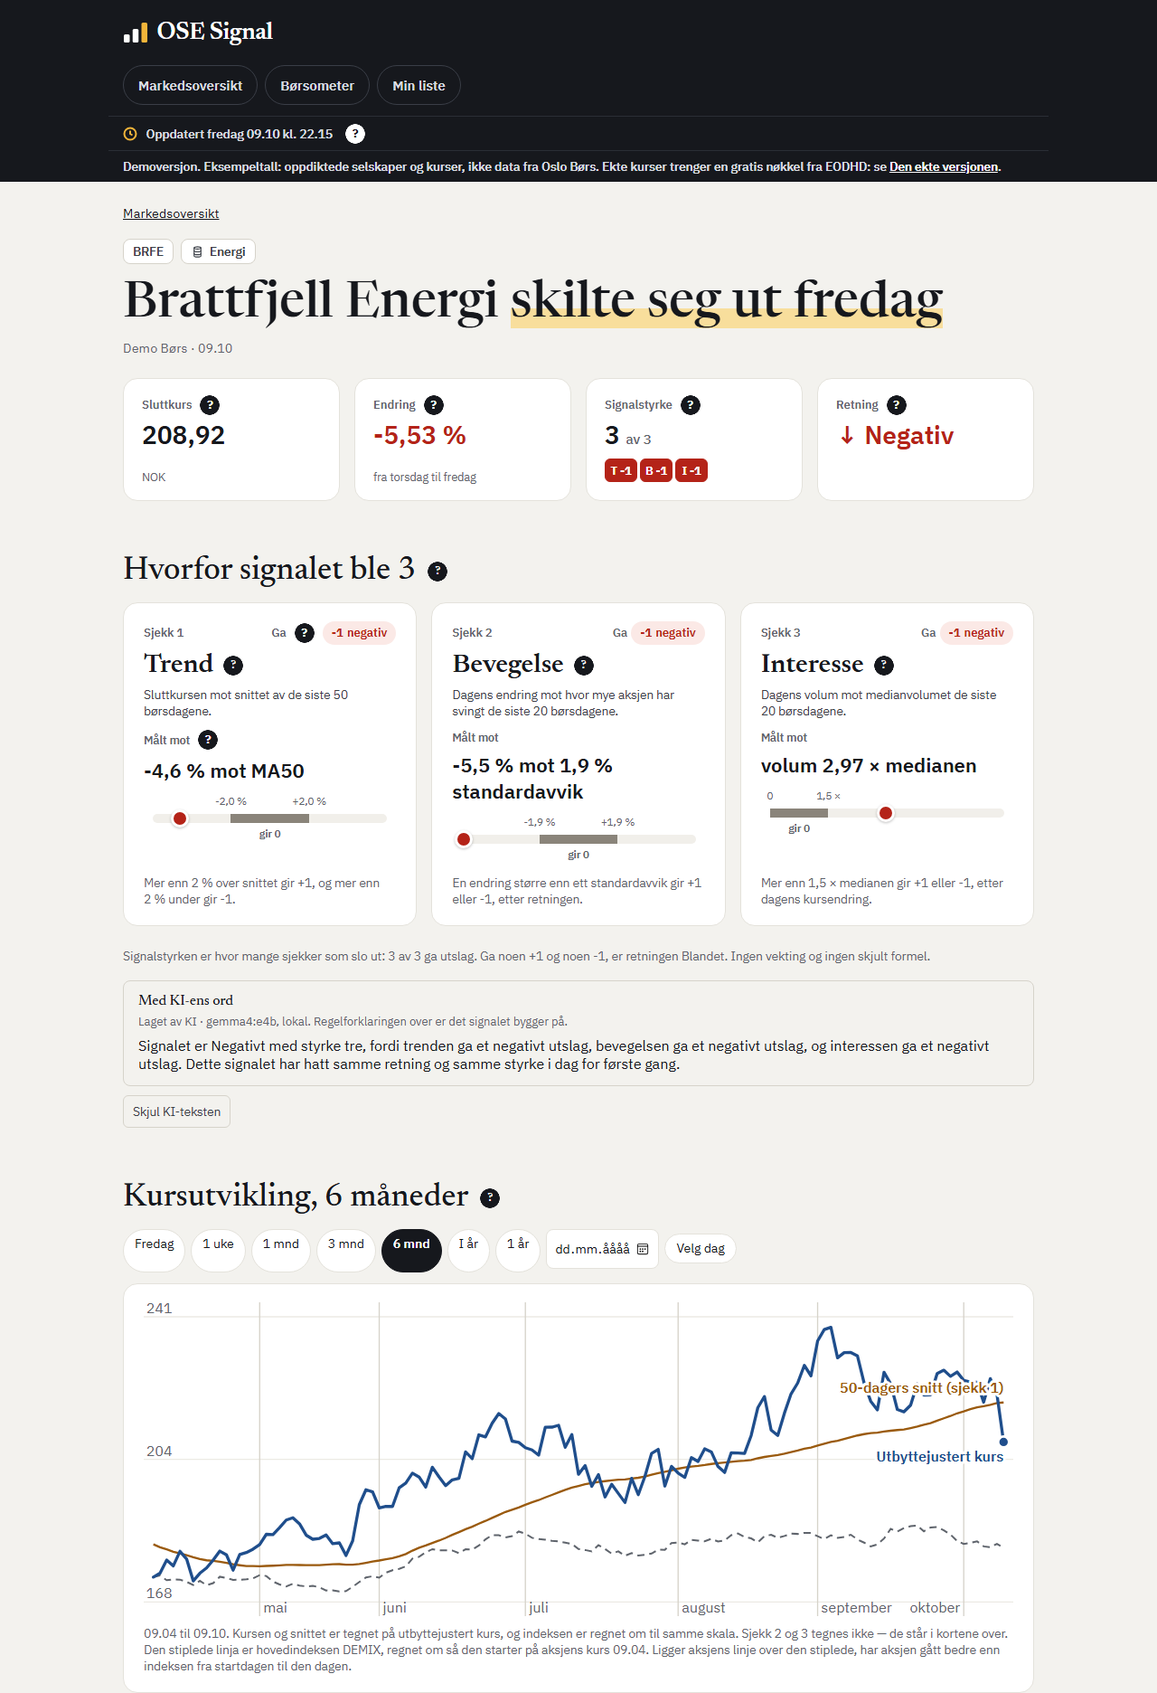
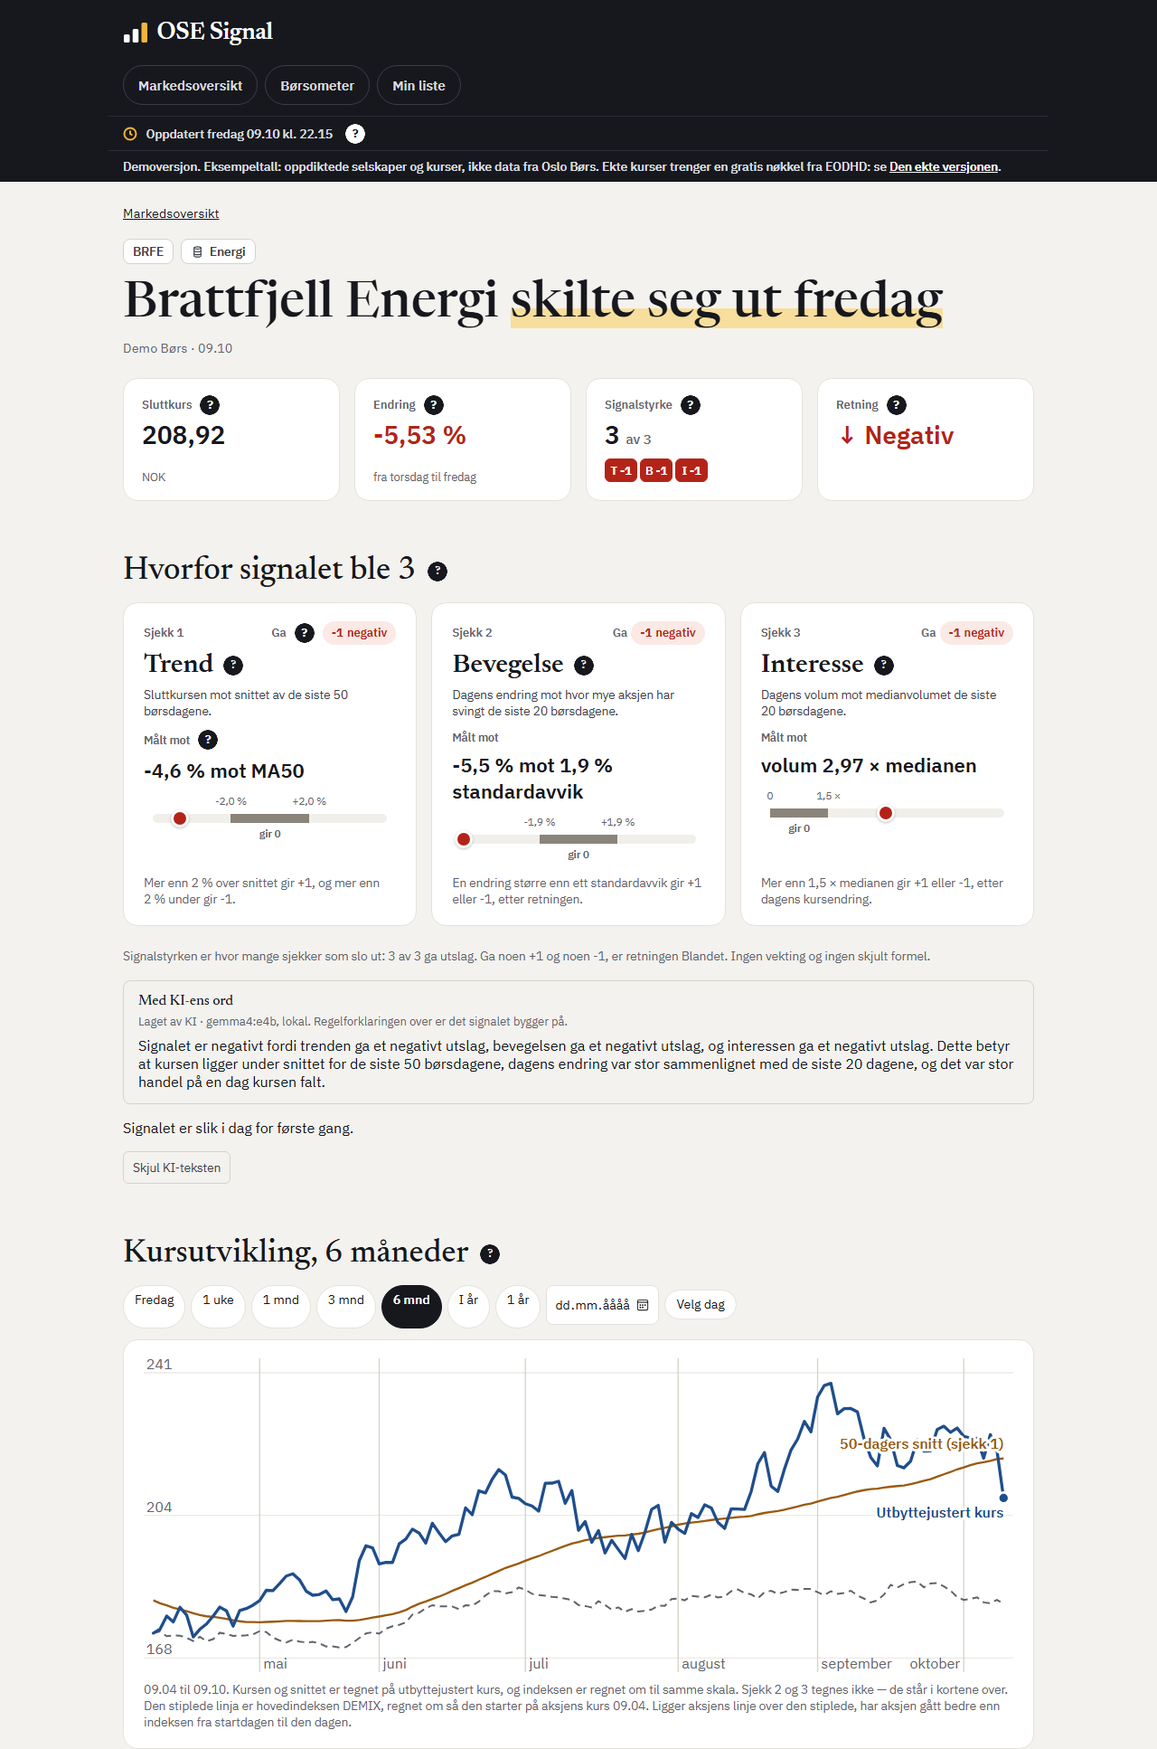
10.2e b: setningen om dagene under KI-teksten, og demoen på nytt
Etter gruppens svar 25.10 kl. 00:51. Appen skriver dagene selv, rett
under KI-teksten, også når KI er av eller teksten er stoppet. Tellingen
er flyttet til src/dagene.py, så webserveren ikke importerer ki_*.
KI-tekstene i demoen: 13 av 13. Bildet viser BRFE med setningen.

diff --git a/src/templates/aksje.html b/src/templates/aksje.html
@@ -140,6 +140,11 @@
         {% endif %}
       </section>
     {% endif %}
+    {#- Gruppens svar 25.10 kl. 00:51: appen skriver dagene, rett under
+        KI-teksten, også når KI er av eller teksten er stoppet. #}
+    {% if dagene %}
+      <p class="dagene">{{ dagene }}</p>
+    {% endif %}
     <form class="ki-bryter"{% if not ki_vises %} id="{{ ki_anker }}"{% endif %} method="post" action="/ki">
       <input type="hidden" name="til" value="{{ ki_til }}">
       <input type="hidden" name="tilbake" value="{{ ki_tilbake }}">

diff --git a/tests/test_ki_visning.py b/tests/test_ki_visning.py
@@ -554,3 +554,109 @@ class TestStory816bDenValgteDagen:
         etter stien, for eksempel en annen side eller et linjeskift."""
         svar = klient.post("/ki", data={"til": "paa", "tilbake": tilbake})
         assert svar.headers["Location"] in ("/", "http://localhost/")
+
+
+ANNEN = Vurdering(
+    styrke=1,
+    retning="Positiv",
+    trend=1,
+    bevegelse=0,
+    interesse=0,
+    slutt=100.0,
+    justert_slutt=100.0,
+    trend_avvik=0.031,
+    dagens_endring=0.001,
+    standardavvik=0.011,
+    volumforhold=1.0,
+)
+
+
+class TestSetningenOmDagene:
+    """Gruppens svar 25.10 kl. 00:51: appen skriver dagene i en setning rett
+    under KI-teksten, ogsaa naar KI er av eller teksten er stoppet, med
+    tellingen fra svaret 24.10 kl. 16:15 a)."""
+
+    @pytest.mark.parametrize(
+        "dager, minst, valgt, setning",
+        [
+            (1, False, False, "Signalet er slik i dag for første gang."),
+            (1, False, True, "Signalet ble slik denne dagen for første gang."),
+            (4, False, False, "Signalet har vært slik i 4 børsdager på rad."),
+            (4, False, True, "Signalet har vært slik i 4 børsdager på rad."),
+            (12, True, False, "Signalet har vært slik i minst 12 børsdager."),
+            (1, True, False, "Signalet har vært slik i minst 1 børsdag."),
+            (1234, False, False, "Signalet har vært slik i 1 234 børsdager på rad."),
+        ],
+    )
+    def test_setningen(self, dager, minst, valgt, setning):
+        """Ville feilet hvis setningen ikke fulgte gruppens ordlyd for 1 dag,
+        flere dager og minst, eller tallet ikke fulgte regel 21."""
+        from dagene import setning_om_dagene
+
+        assert setning_om_dagene(dager, minst, valgt_dag=valgt) == setning
+
+    @pytest.mark.parametrize("dager", [0, True, 2.0])
+    def test_ugyldige_dager_avvises(self, dager):
+        from dagene import setning_om_dagene
+
+        with pytest.raises(ValueError):
+            setning_om_dagene(dager, False)
+
+    def test_flere_dager_paa_siden_rett_under_ki_teksten(self, klient, aksje):
+        """Fire boersdager med samme retning og styrke, og en annen foer.
+        Ville feilet hvis setningen manglet, sto et annet sted enn rett
+        under KI-teksten, eller tellingen ikke leste basen."""
+        for dato in (date(2026, 10, 28), date(2026, 10, 29), date(2026, 10, 30)):
+            skriv_vurdering("EQNR", dato, VURDERING)
+        skriv_vurdering("EQNR", date(2026, 10, 27), ANNEN)
+        skriv_kirad(kirad(aksje))
+        html = side(klient)
+        setning = '<p class="dagene">Signalet har vært slik i 4 børsdager på rad.</p>'
+        assert setning in html
+        assert html.index("Med KI-ens ord") < html.index(TEKST) < html.index(setning) < html.index("ki-bryter")
+
+    def test_en_dag_paa_siden(self, klient, aksje):
+        """Ville feilet hvis en annen vurdering dagen foer ikke ga «i dag for
+        første gang»."""
+        skriv_vurdering("EQNR", date(2026, 10, 30), ANNEN)
+        assert '<p class="dagene">Signalet er slik i dag for første gang.</p>' in side(klient)
+
+    def test_minst_paa_siden(self, klient, aksje):
+        """Uten rad for boersdagen foer er antallet det minste det kan vaere.
+        Ville feilet hvis siden sa et eksakt antall."""
+        assert '<p class="dagene">Signalet har vært slik i minst 1 børsdag.</p>' in side(klient)
+
+    @pytest.mark.parametrize(
+        "kapsel, endret",
+        [
+            ("av", {}),
+            (None, dict(besto=False, grunn="1: dagene «i dag for første gang», modellen nevner ikke dagene")),
+            (None, dict(tekst=None, besto=False, grunn="modellen feilet")),
+            (None, None),
+        ],
+    )
+    def test_ogsaa_uten_ki_tekst(self, klient, aksje, kapsel, endret):
+        """KI av, teksten stoppet, modellen feilet, og ingen rad. Ville feilet
+        hvis setningen bare sto naar KI-teksten ble vist."""
+        skriv_vurdering("EQNR", date(2026, 10, 30), ANNEN)
+        if endret is not None:
+            skriv_kirad(kirad(aksje, **endret))
+        html = side(klient, kapsel)
+        assert TEKST not in html
+        assert '<p class="dagene">Signalet er slik i dag for første gang.</p>' in html
+
+    def test_ingen_setning_uten_vurdering(self, klient):
+        """En dag med en grunn har ikke noe signal. Ville feilet hvis siden
+        likevel skrev dagene."""
+        rader = serie([100.0] * 61)
+        skriv_serie("EQNR", rader, datetime.fromisoformat(HENTET), vurdert=False)
+        skriv_vurdering("EQNR", rader[-1].dato, Grunn.KURS_IKKE_FRA_DAGEN)
+        assert 'class="dagene"' not in side(klient)
+
+    def test_en_valgt_dag(self, klient, aksje):
+        """«Velg dag» 30.10, med en annen vurdering 29.10. Ville feilet hvis
+        siden sa «i dag» om en tidligere dag."""
+        skriv_vurdering("EQNR", date(2026, 10, 30), VURDERING)
+        skriv_vurdering("EQNR", date(2026, 10, 29), ANNEN)
+        html = klient.get("/aksje/EQNR?dag=2026-10-30").get_data(as_text=True)
+        assert '<p class="dagene">Signalet ble slik denne dagen for første gang.</p>' in html

diff --git a/src/dagene.py b/src/dagene.py
@@ -1,0 +1,59 @@
+"""Hvor lenge signalet har vaert slik - story 10.2e, gruppens svar 25.10 kl. 00:51.
+
+Ren logikk. Tellingen er fra svaret 24.10 kl. 16:15 a): boersdager paa rad
+med samme retning og styrke, til og med dagen. Den laa i ki_grunnlag.py, men
+modellen faar ikke lenger dagene, og appen skriver dem selv i en setning
+under KI-teksten paa aksjesiden. Modulen er utenfor ki_*, saa webserveren
+ikke importerer noe fra KI-laget (AD-10).
+"""
+
+from collections.abc import Mapping
+from datetime import date
+
+from boersdag import UtenforKalenderen, forrige_boersdag
+from tallformat import tall
+from vurderingsdata import Grunn, Vurdering
+
+DAGENE_FOERSTE = "Signalet er slik i dag for første gang."
+# For en tidligere dag valgt med «Velg dag» passer ikke «i dag».
+DAGENE_FOERSTE_VALGT = "Signalet ble slik denne dagen for første gang."
+DAGENE_PAA_RAD = "Signalet har vært slik i {dager} børsdager på rad."
+DAGENE_MINST_EN = "Signalet har vært slik i minst 1 børsdag."
+DAGENE_MINST = "Signalet har vært slik i minst {dager} børsdager."
+
+
+def tell_dagene(dag: date, vurdering: Vurdering, tidligere: Mapping[date, Vurdering | Grunn]) -> tuple[int, bool]:
+    """Boersdager paa rad til og med dag med samme retning og styrke, og om
+    rekka er «minst» (gruppens svar 24.10 kl. 16:15, a).
+
+    tidligere er de lagrede radene for aksjen foer dag. Rekka stopper ved en
+    annen retning eller styrke eller en grunn, og da er antallet kjent. En
+    boersdag uten rad, ogsaa foer foerste lagrede vurdering, eller en dag
+    utenfor kalenderen, gir «minst»: hvordan signalet var foer, er ukjent.
+    """
+    dager = 1
+    naa = dag
+    while True:
+        try:
+            naa = forrige_boersdag(naa)
+        except UtenforKalenderen:
+            return dager, True
+        rad = tidligere.get(naa)
+        if rad is None:
+            return dager, True
+        if not isinstance(rad, Vurdering) or (rad.retning, rad.styrke) != (vurdering.retning, vurdering.styrke):
+            return dager, False
+        dager += 1
+
+
+def setning_om_dagene(dager: int, minst: bool, valgt_dag: bool = False) -> str:
+    """Setningen under KI-teksten. minst er True naar dagene foer ikke er
+    lagret, saa antallet er det minste det kan vaere. Tallet vises etter
+    regel 21 (tallformat.tall)."""
+    if type(dager) is not int or dager < 1:
+        raise ValueError("dager maa vaere et heltall fra 1")
+    if minst:
+        return DAGENE_MINST_EN if dager == 1 else DAGENE_MINST.format(dager=tall(dager, "heltall"))
+    if dager == 1:
+        return DAGENE_FOERSTE_VALGT if valgt_dag else DAGENE_FOERSTE
+    return DAGENE_PAA_RAD.format(dager=tall(dager, "heltall"))

diff --git a/src/app.py b/src/app.py
@@ -39,6 +39,7 @@ import lagring_sqlite
 from aksjedetalj import bygg_dagen, bygg_detalj, normaliser_symbol
 from boersdag import UtenforKalenderen, innevaerende_boersdag, norsk_dato
 from boersometer import bygg_boersometer, bygg_rute
+from dagene import setning_om_dagene, tell_dagene
 from demo import DEMOKOMMANDO, DEMOKOMMANDO_DOCKER, STARTDAG, gammel_demobase
 from graf import bygg_graf
 from historikk import PARAMETER, Maaned, adresse, bygg_maaned, les_maaned, maanedsnavn, perioden
@@ -823,6 +824,9 @@ def aksjedetalj(symbol: str):
     # vurdering aa forklare og bryteren er paa (FR-601, FR-602).
     ki_er_paa = ki_paa(request.cookies.get(KAPSEL))
     ki = _ki_visning(post, detalj) if ki_er_paa and detalj.sjekker else None
+    # Gruppens svar 25.10 kl. 00:51: setningen om dagene under KI-teksten,
+    # ogsaa naar KI er av eller teksten er stoppet.
+    dagene = _setningen_om_dagene(post, detalj, valgt_dag=valg.periode == VELG and slutt != rader[-1].dato)
     # Story 8.16b: bryteren tar deg tilbake til den samme dagen.
     tilbake = f"/aksje/{post.aksje.symbol}"
     if valg.periode == VELG:
@@ -869,6 +873,7 @@ def aksjedetalj(symbol: str):
             hentet=post.hentet,
             ki=ki,
             ki_er_paa=ki_er_paa,
+            dagene=dagene,
             ki_til=AV if ki_er_paa else PAA,
             # Story 10.5: lenken til investorsiden for aksjen siden viser,
             # slaatt opp paa symbolet. Siden henter ingenting derfra (AD-2).
@@ -892,6 +897,22 @@ def _historikken(post, rader, dagen: date, i_dag: date) -> Maaned:
     lager = SqliteVurderingslager(g.tilkobling, naa, (post.aksje,))
     radene = lager.les_periode(post.aksje.symbol, *perioden(maaned))
     return bygg_maaned(maaned, [rad.dato for rad in rader], radene, i_dag, STANDARD.terskel, beskjed)
+
+
+def _setningen_om_dagene(post, detalj, valgt_dag: bool) -> str | None:
+    """Gruppens svar 25.10 kl. 00:51: hvor lenge signalet har vaert slik, med
+    tellingen fra svaret 24.10 kl. 16:15 a), lest fra vurdering (AD-3, AD-10).
+    None uten en vurdering for dagen, eller naar basen ikke kan leses."""
+    if not detalj.vurdering:
+        return None
+    try:
+        lager = SqliteVurderingslager(g.tilkobling, naa, (post.aksje,))
+        tidligere = lager.les_periode(post.aksje.symbol, date.min, detalj.dato)
+    except (sqlite3.Error, ValueError) as feil:
+        app.logger.warning("Dagene kunne ikke leses: %s: %s", type(feil).__name__, feil)
+        return None
+    dager, minst = tell_dagene(detalj.dato, detalj.vurdering, tidligere)
+    return setning_om_dagene(dager, minst, valgt_dag=valgt_dag)
 
 
 def _ki_visning(post, detalj) -> KIVisning:

diff --git a/src/ki_grunnlag.py b/src/ki_grunnlag.py
@@ -28,7 +28,7 @@ endringen slik den vises (tallformat.avrundet), som streken paa grafen og
 fargene i boersometeret, saa teksten og siden sier det samme.
 
 Fjerde forsoek (gruppens svar 25.10 kl. 00:51): modellen faar ikke dagene.
-Dagsbildet teller dem fortsatt (tell_dagene, svaret 24.10 kl. 16:15 a), men
+Dagsbildet teller dem fortsatt (tell_dagene, flyttet til dagene.py), men
 grunnlaget har ikke dager eller dager_merke. Appen skriver dagene selv, i en
 setning under KI-teksten paa aksjesiden.
 """
@@ -38,7 +38,7 @@ from dataclasses import dataclass
 from datetime import date
 from types import MappingProxyType
 
-from boersdag import UtenforKalenderen, forrige_boersdag
+from dagene import tell_dagene
 from hovedindeks import indeksendring
 from kursdata import Aksje, Kursrad
 from markedsoversikt import endring_i_prosent
@@ -83,30 +83,6 @@ def bevegelse(endring: float | None) -> str | None:
         return None
     vist = avrundet(endring, "endring")
     return STEG if vist > 0 else FALT if vist < 0 else UENDRET
-
-
-def tell_dagene(dag: date, vurdering: Vurdering, tidligere: Mapping[date, Vurdering | Grunn]) -> tuple[int, bool]:
-    """Boersdager paa rad til og med dag med samme retning og styrke, og om
-    rekka er «minst» (gruppens svar 24.10 kl. 16:15, a).
-
-    tidligere er de lagrede radene for aksjen foer dag. Rekka stopper ved en
-    annen retning eller styrke eller en grunn, og da er antallet kjent. En
-    boersdag uten rad, ogsaa foer foerste lagrede vurdering, eller en dag
-    utenfor kalenderen, gir «minst»: hvordan signalet var foer, er ukjent.
-    """
-    dager = 1
-    naa = dag
-    while True:
-        try:
-            naa = forrige_boersdag(naa)
-        except UtenforKalenderen:
-            return dager, True
-        rad = tidligere.get(naa)
-        if rad is None:
-            return dager, True
-        if not isinstance(rad, Vurdering) or (rad.retning, rad.styrke) != (vurdering.retning, vurdering.styrke):
-            return dager, False
-        dager += 1
 
 
 def _endringen(serie: list[Kursrad], dag: date) -> float | None:

diff --git a/tests/test_docker.py b/tests/test_docker.py
@@ -1034,6 +1034,8 @@ FILENE_BAK_AKSJESIDEN = (
     "src/vurderingsdata.py",
     # Story 2.7b: historikken nederst paa aksjesiden.
     "src/historikk.py",
+    # Story 10.2e (svaret 25.10 kl. 00:51): setningen om dagene under KI-teksten.
+    "src/dagene.py",
     "src/templates/aksje.html",
     # Gjennomgangen (BH1, ECH1): lagringslaget som leser det siden viser, og
     # skjemaet demobasen lages med.
@@ -1054,7 +1056,9 @@ IKKE_BAK_AKSJESIDEN = {"src/lagring_fil.py", "src/eodhd.py", "src/boersometer.py
 # slutter da ved 1827, maalt i Edge uten vindu. Var 1872.
 # Story 10.2e, gruppens svar 24.10 kl. 23:23: bildet viser BRFE med KI-teksten,
 # og grafen slutter ved 1872, maalt i Edge uten vindu. Var 1827.
-HOEYDE_PAA_AKSJESIDEN = 1872
+# Story 10.2e, gruppens svar 25.10 kl. 00:51: setningen om dagene under
+# KI-teksten, og en lengre tekst for BRFE. Grafen slutter ved 1934. Var 1872.
+HOEYDE_PAA_AKSJESIDEN = 1934
 # Story 2.3, kl. 22 fra 20.10: stripa sier kl. 22.15 igjen, ikke 21.15.
 # Story 10.5: lenken til investorsiden står under grafen, ved 1980 px målt i
 # Edge uten vindu, så bildet, som slutter ved bunnen av grafen (1872 px), ble
@@ -1136,7 +1140,10 @@ HOEYDE_PAA_AKSJESIDEN = 1872
 # bildet ble tatt paa nytt med hoeyden 1827.
 # Story 10.2e, gruppens svar 24.10 kl. 23:23: KI-tekstene laget paa nytt med
 # ferdig ordlyd for dagene. KVST ble stoppet igjen, og bildet viser BRFE.
[1 lines of base64/hex data omitted]
+# Story 10.2e, gruppens svar 25.10 kl. 00:51: modellen nevner ikke dagene, og
+# setningen om dagene staar under KI-teksten (src/dagene.py). Bildet viser
+# fortsatt BRFE, med hoeyden 1934.
[1 lines of base64/hex data omitted]
 SLIK_TAS_AKSJESIDEN = (
     "Aksjesiden er endret, så bildet av den viser noe annet enn demoen. Ta "
     f"{AKSJESIDEBILDET} på nytt med fremgangsmåten i spesifikasjonen 3.3b, mot /aksje/BRFE: "

diff --git a/tests/test_hjelpetekster.py b/tests/test_hjelpetekster.py
@@ -532,7 +532,11 @@ class TestSnittetIGrafen:
         assert "50-dagers" not in html
         # Hjelpen foelger samme parametre som navnet paa linja i grafen.
         assert "snittet av de siste 40 børsdagene" in html
-        assert "de siste 50 børsdagene" not in html
+        # Story 10.2e: KI-teksten i demoen er laget med regelens 50 og staar
+        # fast (demo_ki_tekster.json), saa den tas ut her. Testen gjelder malen
+        # og hjelpen.
+        uten_ki = re.sub(r'<section class="ki".*?</section>', "", html, flags=re.S)
+        assert "de siste 50 børsdagene" not in uten_ki
 
 
 # Story 8.0c: hoeyst 3 setninger per tekst, og ordene ordlista har valgt bort

diff --git a/src/ki_prompt.py b/src/ki_prompt.py
@@ -43,7 +43,7 @@ Versjon 3, fjerde forsoek (gruppens svar 25.10 kl. 00:50 og 00:51,
 malinger.md §45): modellen faar ikke dagene og nevner dem ikke. Ordlyden fra
 tredje forsoek er tatt ut, og reglene sier at teksten ikke sier hvor lenge
 signalet har vart. Appen skriver dagene selv, under KI-teksten paa
-aksjesiden (setning_om_dagene i aksjedetalj.py). Versjonen staar som 3, og
+aksjesiden (setning_om_dagene i dagene.py). Versjonen staar som 3, og
 avtrykket dekker reglene, merket og lag_prompt.
 """
 

diff --git a/tests/test_ki_grunnlag.py b/tests/test_ki_grunnlag.py
@@ -6,6 +6,7 @@ from datetime import date, timedelta
 
 import pytest
 
+from dagene import tell_dagene
 from ki_grunnlag import (
     FALT,
     RETNINGER,
@@ -17,7 +18,6 @@ from ki_grunnlag import (
     bevegelse,
     ki_grunnlag,
     lag_dagsbilde,
-    tell_dagene,
 )
 from kursdata import Aksje, Kursrad
 from signalberegning import Signal, Sjekk, beregn_signal, vurder

diff --git a/_bmad-output/implementation-artifacts/spec-10-2e-prompten-versjon-3.md b/_bmad-output/implementation-artifacts/spec-10-2e-prompten-versjon-3.md
@@ -91,6 +91,13 @@ Gruppen ville prøve igjen (kl. 00:50). Modellen får ikke dagene og nevner dem 
 - Kontrollen stopper dagene i enhver form, uansett grunnlaget: et antall dager, «minst» ved et ord om dagene, «på rad», ordenstall og «for første gang», og ord som «fortsatt», «lenge», «uker» og «nytt signal». Rettingene fra gjennomgangen 25.10 for «andre», «i dag», «1. Dagen» og regelens vinduer står.
 - Testene som godtok ordlyden eller et antall dager, er snudd eller tatt bort, og formene fra §44 og §45, blant dem VAR og TEL, stoppes i `TestDageneStoppes`.
 
+**b) Setningen om dagene og demoen** (`src/dagene.py`, `src/app.py`, `src/templates/aksje.html`):
+- `tell_dagene` er flyttet fra `ki_grunnlag.py` til den nye modulen `src/dagene.py`, fordi webserveren ikke importerer noe fra `ki_*` (AD-10, `test_webserveren_importerer_ingen_modell_heller_ikke_under_en_forespoersel`). `setning_om_dagene` lager setningen: «Signalet er slik i dag for første gang.», «Signalet har vært slik i N børsdager på rad.», «Signalet har vært slik i minst 1 børsdag.» og «Signalet har vært slik i minst N børsdager.», med tallet etter regel 21.
+- For en tidligere dag valgt med «Velg dag» passer ikke «i dag», så setningen for 1 dag er da «Signalet ble slik denne dagen for første gang.» Den ordlyden er ikke gitt av gruppen og står under «Åpent».
+- Aksjesiden viser setningen rett under KI-feltet og over bryteren, også når KI er av, teksten er stoppet, modellen feilet eller det ikke er noen rad. Uten en vurdering for dagen står den ikke. Tellingen leser vurderingene for aksjen fra basen (AD-3, AD-10), i demoen og i den ekte versjonen.
+- KI-tekstene i demoen er laget på nytt, 01:09:25–01:09:44: 13 av 13 besto, og ingen nevner dagene. Hver er lest mot grunnlaget, og ingen sier feil om en sjekk. Bildet viser fortsatt BRFE, der teksten besto, nå med setningen, 1280 × 1934, målt i Edge uten vindu (var 1872). README-teksten under bildet, høyden, `src/dagene.py` i filene bak aksjesiden og avtrykket følger med.
+- `test_ma_vinduet_kommer_fra_parametre` tar KI-feltet ut før den ser etter «de siste 50 børsdagene», fordi den nye demoteksten for BRFE forklarer regelen med det faste tallet.
+
 ## Boundaries & Constraints
 
 - Ingen kall til EODHD utover kvotesjekken i regel 15. `src/fetch_prices.py` kjøres ikke, og `data/db/ose.db` røres ikke (regel 22).
@@ -225,3 +232,4 @@ Gjennomgang 25.10, etter hele settet (00:22:52–00:30:02), på diffen `cfceb42.
 - *Lagt til 2026-10-25:* modellen setter ofte ordlyden i anførselstegn etter et ekstra «i», som «i "i dag for første gang"» (åtte av de ti demotekstene som besto). Ordlyden står ordrett, så kontrollen slipper den. Om prompten skal si hvordan ordlyden settes inn i setningen, avgjør gruppen.
 - *Lagt til 2026-10-25:* versjon 3 med ferdig ordlyd besto 13 av 15 i §45 (VAR og TEL på «det første signalet»), under kravet 15 av 15 i svaret kl. 23:23, og flettes ikke. Gruppen avgjør veien videre.
 - *Lagt til 2026-10-25:* ordlyden godtas der den står, også i en annen setning (BH4), og dagene med ord som «fortsatt», «lenge» og «uker» leses ikke (BH2, ECH6).
+- *Lagt til 2026-10-25:* for en tidligere dag valgt med «Velg dag» skriver siden «Signalet ble slik denne dagen for første gang.» i stedet for «i dag». Gruppen avgjør ordlyden.

diff --git a/README.md b/README.md
@@ -12,8 +12,8 @@ OSE Signal viser 15 aksjer på Oslo Børs som omsettes mye, samlet i én oversik
 ![Oversikten i demoen, med oppdiktede selskaper og kurser («Eksempeltall»), ikke data fra Oslo Børs](docs/appen/oversikten-demo.png)
 *Oversikten i demoen, med oppdiktede selskaper og kurser («Eksempeltall»).*
 
-![Aksjesiden for Brattfjell Energi (BRFE) i demoen, med KI-teksten og kursgrafen, med oppdiktede tall («Eksempeltall»), ikke data fra Oslo Børs](docs/appen/aksjesiden-brfe-demo.png)
-*Aksjesiden for BRFE i demoen, med KI-teksten og grafen, med oppdiktede tall («Eksempeltall»).*
+![Aksjesiden for Brattfjell Energi (BRFE) i demoen, med KI-teksten, setningen om hvor lenge signalet har vært slik, og kursgrafen, med oppdiktede tall («Eksempeltall»), ikke data fra Oslo Børs](docs/appen/aksjesiden-brfe-demo.png)
+*Aksjesiden for BRFE i demoen, med KI-teksten, setningen om dagene under den, og grafen, med oppdiktede tall («Eksempeltall»).*
 
 </details>
 
